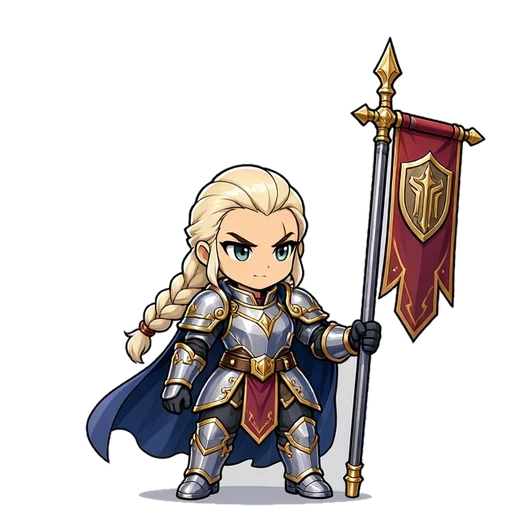
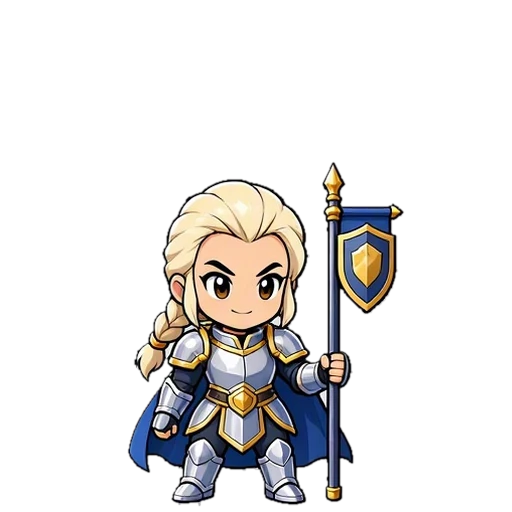
Arte de Hilda, Tilo y Elian; Valka nueva; tienda con seis ofertas; arrastrar cartas al mazo; solo tableros nuevos

diff --git a/js/ui.js b/js/ui.js
@@ -673,7 +673,7 @@ function campaignMap(nextSt) {
 }
 
 /* ---------- arenas y camino de trofeos ---------- */
-function arenaPic(i) { var f = ARENAS[i].field; return f === 'prado' ? 'assets/tablero.webp' : 'assets/boards/' + f + '.webp'; }
+function arenaPic(i) { var f = NEW_FIELD_OF[ARENAS[i].field] || ARENAS[i].field; return f === 'prado' ? 'assets/tablero.webp' : 'assets/boards/' + f + '.webp'; }
 // franja del 1 contra 1: tu arena, tus trofeos y lo que falta para la siguiente parada
 function arenaStrip() {
   var ai = arenaIndex(), ni = roadNext(), pend = roadPending();
@@ -946,6 +946,84 @@ function cardHtml(id, enRejilla) {
     '<span class="tc-bar' + (pct >= 100 ? ' full' : '') + '"><i style="width:' + pct + '%"></i><em>' + (max ? 'MÁX' : c.n + '/' + need) + '</em></span>' +
     '<b class="tc-name">' + esc(u.name) + '</b></button>';
 }
+/* Arrastrar cartas al mazo: una de la colección soltada sobre una del mazo
+   la sustituye, y dos del mazo se cambian de sitio. Con el dedo hay que
+   mantenerla pulsada un momento (si no, es desplazar la pantalla); con el
+   ratón basta con moverla. */
+var cardDragged = false;
+function bindDeckDrag(m) {
+  var tray = m.querySelector('.deck-tray');
+  if (!tray) return;
+  m.querySelectorAll('.tc[data-card]:not(.locked)').forEach(function (card) {
+    card.addEventListener('pointerdown', function (e) {
+      if (e.button) return;
+      var id = card.dataset.card, fromDeck = tray.contains(card), x0 = e.clientX, y0 = e.clientY;
+      var ghost = null, over = null, holdT = null, done = false, lastY = y0, lastX = x0;
+      // cerca del borde de arriba o de abajo, la pantalla se desplaza sola
+      var scroller = (function (el) { while (el && el !== document.body) { var o = getComputedStyle(el).overflowY; if ((o === 'auto' || o === 'scroll') && el.scrollHeight > el.clientHeight) return el; el = el.parentElement; } return document.scrollingElement; })(tray);
+      var autoScroll = function () {
+        if (!ghost || done) return;
+        var edge = 90, v = lastY < edge ? -(edge - lastY) / 6 : lastY > innerHeight - edge ? (lastY - innerHeight + edge) / 6 : 0;
+        if (v) { scroller.scrollTop += v; hover(lastX, lastY); }
+        requestAnimationFrame(autoScroll);
+      };
+      var hover = function (x, y) {
+        var t = target(x, y);
+        if (t !== over) { if (over) over.classList.remove('drop-here'); over = t; if (over) over.classList.add('drop-here'); }
+      };
+      var start = function () {
+        if (ghost || done) return;
+        var r = card.getBoundingClientRect();
+        ghost = card.cloneNode(true); ghost.classList.add('tc-ghost');
+        ghost.style.width = r.width + 'px'; ghost.style.left = (x0 - r.width / 2) + 'px'; ghost.style.top = (y0 - r.height / 2) + 'px';
+        document.body.appendChild(ghost); card.classList.add('tc-lifted'); tray.classList.add('drop-on');
+        if (navigator.vibrate && meta.settings.vibra) navigator.vibrate(15);
+        sfx('tap'); requestAnimationFrame(autoScroll);
+      };
+      var target = function (x, y) {
+        var el = document.elementFromPoint(x, y), t = el && el.closest('.deck-tray .tc[data-card]');
+        return t && t !== card ? t : null;
+      };
+      var move = function (ev) {
+        if (!ghost) {
+          var dist = Math.hypot(ev.clientX - x0, ev.clientY - y0);
+          if (e.pointerType === 'mouse' ? dist > 6 : false) start();
+          else if (dist > 10) { end(); return; }
+          if (!ghost) return;
+        }
+        ev.preventDefault();
+        lastX = ev.clientX; lastY = ev.clientY;
+        ghost.style.transform = 'translate(' + (ev.clientX - x0) + 'px,' + (ev.clientY - y0) + 'px) scale(1.08) rotate(-4deg)';
+        hover(ev.clientX, ev.clientY);
+      };
+      var noScroll = function (ev) { if (ghost) ev.preventDefault(); };
+      var end = function (ev) {
+        if (done) return;
+        done = true; clearTimeout(holdT);
+        document.removeEventListener('pointermove', move); document.removeEventListener('pointerup', end); document.removeEventListener('pointercancel', end);
+        document.removeEventListener('touchmove', noScroll);
+        if (!ghost) return;
+        ghost.remove(); card.classList.remove('tc-lifted'); tray.classList.remove('drop-on');
+        if (over) over.classList.remove('drop-here');
+        cardDragged = true; setTimeout(function () { cardDragged = false; }, 50);
+        if (!over || !ev || ev.type !== 'pointerup') return;
+        var k = meta.deck.indexOf(over.dataset.card);
+        if (k === -1) return;
+        if (fromDeck) { var j = meta.deck.indexOf(id); meta.deck[j] = meta.deck[k]; meta.deck[k] = id; }
+        else if (meta.deck.indexOf(id) !== -1) { toast('Ya está en el mazo'); return; }
+        else meta.deck[k] = id;
+        saveMeta(); sfx('merge'); renderMenu('collection');
+      };
+      if (e.pointerType !== 'mouse') holdT = setTimeout(start, 260);
+      document.addEventListener('pointermove', move, { passive: false });
+      document.addEventListener('pointerup', end); document.addEventListener('pointercancel', end);
+      document.addEventListener('touchmove', noScroll, { passive: false });
+    });
+    // sin el menú del navegador al mantener pulsada la carta ni el arrastre de su imagen
+    card.addEventListener('contextmenu', function (ev) { ev.preventDefault(); });
+    card.addEventListener('dragstart', function (ev) { ev.preventDefault(); });
+  });
+}
 function bindMenu() {
   var m = $('menu');
   m.querySelectorAll('[data-go]').forEach(function (b) {
@@ -1046,7 +1124,8 @@ function bindMenu() {
   m.querySelectorAll('[data-rf]').forEach(function (b) { b.onclick = function () { collFilter = b.dataset.rf; sfx('tap'); renderMenu('collection'); }; });
   m.querySelectorAll('[data-ef]').forEach(function (b) { b.onclick = function () { collEl = b.dataset.ef; sfx('tap'); renderMenu('collection'); }; });
   m.querySelectorAll('[data-sort]').forEach(function (b) { b.onclick = function () { collSort = b.dataset.sort; sfx('tap'); renderMenu('collection'); }; });
-  m.querySelectorAll('[data-card]').forEach(function (b) { b.onclick = function () { sfx('tap'); showCardModal(b.dataset.card); }; });
+  m.querySelectorAll('[data-card]').forEach(function (b) { b.onclick = function () { if (cardDragged) return; sfx('tap'); showCardModal(b.dataset.card); }; });
+  bindDeckDrag(m);
   m.querySelectorAll('[data-offer]').forEach(function (b) {
     b.onclick = function () {
       var o = shopOffers()[+b.dataset.offer], r = buyOffer(+b.dataset.offer);

diff --git a/js/art.js b/js/art.js
@@ -49,11 +49,12 @@ var IMG = {};
 // imágenes redibujadas: llevan ?v= para que no salga la vieja de la caché
 var ASSET_VER = { 'fx/fusion': 2, 'fx/fusion-eco': 2, 'fx/invocar': 2, 'fx/estado-aturdido': 2, 'fx/estado-veneno': 2, 'fx/estado-critico': 2,
   'fx/veneno-impacto': 2, 'fx/fuego-impacto': 2, 'enemies/coloso2': 2, 'fx/eco-resuena': 2, 'fx/oria-interes': 2, 'ui/vida': 2, 'icons/gota': 2, 'chests/madera': 2, 'chests/plata': 2, 'chests/oro': 2, 'chests/comandante': 2, 'chests/legendario': 2,
-  'tiles/altar': 3, 'tiles/fuente': 3, 'tiles/atalaya': 3 };
+  'tiles/altar': 3, 'tiles/fuente': 3, 'tiles/atalaya': 3, 'units/valka': 4, 'fx/valka-tiro': 2,
+  'units/board/valka-idle': 5, 'units/board/valka-attack': 5 };
 ['cronos', 'eco', 'garra', 'halcon', 'kaia', 'lyra', 'oria', 'rocco', 'seren', 'sombra', 'titan', 'fenix'].forEach(function (id) { ASSET_VER['units/' + id] = 3; });
 function assetV(key) { return ASSET_VER[key] ? '?v=' + ASSET_VER[key] : ''; }
 // tropas sin aura en su casilla
-var NO_CELL_AURA = { eco: true, marea: true, frida: true, pyra: true, valka: true };
+var NO_CELL_AURA = { eco: true, marea: true, frida: true, pyra: true, valka: true, hilda: true, tilo: true, elian: true };
 var IMG_LIST = {
   units: UNIT_ORDER.filter(function (id) { return !UNITS[id].noArt; }),
   enemies: ['blob', 'ghost', 'brute', 'orco', 'rocoso', 'escarcha', 'escudado', 'gelido', 'coloso', 'coloso2', 'nigro', 'dragon'],
@@ -174,7 +175,8 @@ var POSES = {
   melodia: { face: 1 }, cronos: { face: 1 }, halcon: { face: 1 }, ulric: { face: 1 },
   fenix: { face: -1 }, aurora: { face: 1 }, titan: { face: -1 }, boreas: { face: 1 }, midas: { face: 1 },
   kaia: { face: 1 }, seren: { face: 1 }, eco: { face: -1 }, oria: { face: 1 }, garra: { face: 1 },
-  marea: { face: 1 }, frida: { face: 1 }, pyra: { face: 1 }, valka: { face: 1 }
+  marea: { face: 1 }, frida: { face: 1 }, pyra: { face: 1 }, valka: { face: 1 },
+  hilda: { face: 1 }, tilo: { face: 1 }, elian: { face: 1 }
 };
 // tropas con el arte nuevo (assets/personajes): sus poses llevan otra versión
 var NEW_POSE = { cronos: 1, eco: 1, garra: 1, halcon: 1, kaia: 1, lyra: 1, oria: 1, rocco: 1, seren: 1, sombra: 1, titan: 1, fenix: 1 };
@@ -183,7 +185,7 @@ Object.keys(POSES).forEach(function (id) {
   ['idle', 'attack'].forEach(function (pose) {
     var im = new Image();
     im.onload = function () { im.ready = true; };
-    im.src = 'assets/units/board/' + id + '-' + pose + '.webp' + (NEW_POSE[id] ? (pose === 'idle' ? '?v=4' : '?v=2') : pose === 'idle' ? '?v=3' : '');
+    im.src = 'assets/units/board/' + id + '-' + pose + '.webp' + (assetV('units/board/' + id + '-' + pose) || (NEW_POSE[id] ? (pose === 'idle' ? '?v=4' : '?v=2') : pose === 'idle' ? '?v=3' : ''));
     IMG['pose/' + id + '-' + pose] = im;
   });
 });
@@ -212,10 +214,12 @@ var FX_OF = { fire: 'fuego', ice: 'hielo', poison: 'veneno', bomb: 'canon', arro
 var UNIT_SHOT = { lyra: 0.5, kaia: 0.56, halcon: 0.6, seren: 0.46, sombra: 0.52, titan: 0.46, cronos: 0.32, rocco: 0.36,
   marea: 0.42, frida: 0.5, pyra: 0.3, valka: 0.62, fenix: 0.5 };
 var UNIT_SHOT_SPIN = { cronos: true, rocco: true, marea: true, pyra: true };
-Object.keys(UNIT_SHOT).forEach(function (id) {
+// las de apoyo no disparan: su efecto sale hacia las vecinas que potencian
+var SUPPORT_FX = ['hilda', 'tilo', 'elian'];
+Object.keys(UNIT_SHOT).concat(SUPPORT_FX).forEach(function (id) {
   var im = new Image();
   im.onload = function () { im.ready = true; };
-  im.src = 'assets/fx/' + id + '-tiro.webp';
+  im.src = 'assets/fx/' + id + '-tiro.webp' + assetV('fx/' + id + '-tiro');
   IMG['fx/' + id + '-tiro'] = im;
 });
 var FX_TURNS = { 'fx/fuego-bola': true, 'fx/hielo-bola': true, 'fx/hielo-destello': true, 'fx/canon-destello': true,

diff --git a/style.css b/style.css
@@ -1450,6 +1450,15 @@ x-ico.off { filter: grayscale(1) brightness(0.45); opacity: 0.75; }
 .sh-offer.r-legendaria .sh-rar { background-image: url(assets/ui/cinta-legendaria.webp); }
 .sh-offer .sh-new { top: 2px; right: -12px; z-index: 3; }
 .sh-head h3 { font-family: 'Titan One', 'Lilita One', sans-serif; letter-spacing: 0.02em; }
+/* seis ofertas en dos filas de tres: cartas más pequeñas */
+.sh-offers { grid-template-columns: repeat(3, minmax(0, 1fr)); gap: 26px 6px; }
+.sh-offer[class*=" r-"] { border-width: 12px; border-image-width: 12px; padding: 30px 0 2px; }
+.sh-offer .sh-rar { top: -26px; width: 94%; font-size: clamp(0.78rem, 3.4vw, 1rem); -webkit-text-stroke-width: 4px; text-shadow: 0 2px 0 var(--ink); }
+.sh-offer img { width: 52px; height: 52px; margin-top: 0; }
+.sh-offer b { font-size: 0.8rem; -webkit-text-stroke-width: 4px; }
+.sh-offer .sh-n { font-size: 0.66rem; -webkit-text-stroke-width: 3px; }
+.sh-offer .sh-price { font-size: 0.82rem; padding: 3px 4px; }
+.sh-offer .sh-new { right: -8px; font-size: 0.6rem; }
 
 /* portal de luz bajo el cofre al abrirlo (assets/chests/portal-<tipo>) */
 .cfx-portal {
@@ -2473,3 +2482,12 @@ body[data-screen="collection"], body[data-screen="commanders"], body[data-screen
   border-style: solid; border-color: transparent; border-width: 5px 8px;
   border-image: url(assets/ui/placa-vida.webp) 24 fill / 5px 8px stretch; padding: 1px 4px;
 }
+
+/* arrastrar cartas al mazo (bindDeckDrag) */
+.tc { -webkit-touch-callout: none; user-select: none; -webkit-user-select: none; }
+.tc img { -webkit-user-drag: none; }
+.tc-ghost { position: fixed; z-index: 90; pointer-events: none; margin: 0; filter: drop-shadow(0 10px 14px rgba(0,0,0,0.5)); transform: scale(1.08) rotate(-4deg); }
+.tc-lifted { opacity: 0.35; }
+.deck-tray.drop-on .tc { animation: dropWiggle 0.6s ease-in-out infinite; }
+.deck-tray .tc.drop-here { animation: none; transform: scale(1.1); outline: 3px solid #ffe066; outline-offset: 2px; border-radius: 12px; }
+@keyframes dropWiggle { 50% { transform: rotate(2deg); } }

diff --git a/js/board.js b/js/board.js
@@ -76,6 +76,15 @@ var FIELDS = {
 };
 // con varios tableros para un bioma se elige uno al azar en cada partida
 var BIOME_FIELD = { prado: ['prado', 'prado3'], bosque: ['prado', 'prado3'], pantano: ['prado', 'veneno'], hielo: ['hielo', 'hielo2'], ruinas: 'roca', desierto: 'roca', volcan: ['lava2', 'lava3'], cripta: ['lava2', 'lava3'] };
+// de momento solo se juega en los tableros nuevos: cada uno viejo se cambia
+// por el nuevo que más se le parece
+var NEW_FIELDS = ['prado3', 'hielo2', 'lava3'];
+var NEW_FIELD_OF = { prado: 'prado3', veneno: 'prado3', hielo: 'hielo2', roca: 'hielo2', lava2: 'lava3' };
+function onlyNewFields(list) {
+  var out = [];
+  list.forEach(function (f) { f = NEW_FIELD_OF[f] || f; if (NEW_FIELDS.indexOf(f) !== -1 && out.indexOf(f) === -1) out.push(f); });
+  return out.length ? out : NEW_FIELDS.slice();
+}
 function fieldGeo(id) {
   var f = FIELDS[id], cell = (f.gx1 - f.gx0) / COLS;
   var P = function (q) { return { x: (q[0] - f.cx) / cell, y: (q[1] - f.cy) / cell }; };
@@ -862,7 +871,18 @@ Board.prototype.update = function (dt) {
     if (d.buff) {
       // la bardo toca: pose de ataque a ratos
       u.gen += dt;
-      if (u.gen >= 2.4) { u.gen = 0; u.atk = 0.5; u.recoil = 1; }
+      if (u.gen >= 2.4) {
+        u.gen = 0; u.atk = 0.5; u.recoil = 1;
+        // su efecto (assets/fx/<tropa>-tiro) sale hacia cada vecina que potencia
+        var bk = 'fx/' + u.id + '-tiro', bp = this.cc(i);
+        if (art(bk)) neighbors(i).forEach(function (j) {
+          var v = this.cells[j];
+          if (!v || !UNITS[v.id].dmg) return;
+          var q = this.cc(j);
+          this.fx.push({ type: 'pic', key: bk, x: bp.x + (q.x - bp.x) * 0.55, y: bp.y - 0.15 + (q.y - bp.y) * 0.55, size: 0.62,
+            rot: Math.atan2(q.y - bp.y, q.x - bp.x), grow: 0.5, life: 0.45, max: 0.45 });
+        }, this);
+      }
     }
     if (d.wild) {
       // Eco ensaya su hechizo de cristales de vez en cuando

diff --git a/js/meta.js b/js/meta.js
@@ -570,7 +570,7 @@ function stageUnlocked(n) { return n === 1 || (meta.campaign[n - 1] || 0) > 0; }
 /* ---------- tienda ---------- */
 // Ofertas del día: se eligen la primera vez que se abre la tienda en el día
 // (semilla = fecha) y se guardan, para que no cambien al desbloquear tropas.
-// Tres de cartas por oro y una de carta épica o legendaria por gemas.
+// Cinco de cartas por oro y una de carta épica, mítica o legendaria por gemas.
 // Pueden ser de tropas que aún no tienes (la primera carta la desbloquea),
 // salvo las legendarias y míticas, que solo salen en el cofre de oro (en la
 // tienda solo aparecen las que ya tienes).
@@ -578,6 +578,14 @@ function shopOffers() {
   var key = todayKey();
   if (meta.shop.day !== key) meta.shop = { day: key, bought: [], offers: null };
   if (!meta.shop.offers) { meta.shop.offers = makeShopOffers(key); saveMeta(); }
+  else if (meta.shop.offers.length < 6) {
+    // las de hoy se hicieron cuando había cuatro: se completan sin tocar las que había
+    var have = meta.shop.offers.map(function (o) { return o.id; });
+    makeShopOffers(key).forEach(function (o) {
+      if (meta.shop.offers.length < 6 && have.indexOf(o.id) === -1) { o.i = meta.shop.offers.length; meta.shop.offers.push(o); }
+    });
+    saveMeta();
+  }
   return meta.shop.offers;
 }
 function makeShopOffers(key) {
@@ -599,8 +607,10 @@ function makeShopOffers(key) {
     }
   };
   add(['comun'], 'gold');
+  add(['comun'], 'gold');
   add([rnd() < 0.5 ? 'comun' : 'rara', 'comun'], 'gold');
   add(['rara', 'comun'], 'gold');
+  add(['epica', 'rara', 'comun'], 'gold');
   var g = rnd();
   add([g < 0.08 ? 'legendaria' : g < 0.33 ? 'mitica' : 'epica', 'epica', 'mitica'], 'gems');
   out.forEach(function (o, i) { o.i = i; });

diff --git a/js/data.js b/js/data.js
@@ -211,19 +211,19 @@ var UNITS = {
   },
   // apoyos al estilo de los de Rush Royale: no atacan y potencian a sus vecinas
   hilda: {
-    element: 'metal', name: 'Hilda', title: 'Afiladora', role: 'Apoyo', rarity: 'rara', noArt: true,
+    element: 'metal', name: 'Hilda', title: 'Afiladora', role: 'Apoyo', rarity: 'rara',
     color: '#9aa4b8', color2: '#ffb347', skin: '#f3cfae',
     buff: { dmg: 0.15 },
     desc: 'No ataca. Su piedra de afilar da a las tropas de al lado un 15% más de daño por cada rango suyo.'
   },
   tilo: {
-    element: 'naturaleza', name: 'Tilo', title: 'Químico', role: 'Apoyo', rarity: 'rara', noArt: true,
+    element: 'naturaleza', name: 'Tilo', title: 'Químico', role: 'Apoyo', rarity: 'rara',
     color: '#7bd93f', color2: '#e8ff7a', skin: '#ffd9b8',
     buff: { acid: 0.04 },
     desc: 'No ataca. Las tropas de al lado mojan sus golpes en ácido: el monstruo pierde armadura y durante 3 segundos recibe un 4% más de daño por cada rango suyo.'
   },
   elian: {
-    element: 'arcano', name: 'Elian', title: 'Inquisidor', role: 'Apoyo', rarity: 'rara', noArt: true,
+    element: 'arcano', name: 'Elian', title: 'Inquisidor', role: 'Apoyo', rarity: 'rara',
     color: '#f5e6a8', color2: '#ffd34d', skin: '#f3cfae',
     buff: { crit: 0.07 },
     desc: 'No ataca. Bendice con su luz a las tropas de al lado: un 7% de golpe crítico doble por cada rango suyo.'

diff --git a/index.html b/index.html
@@ -15,7 +15,7 @@
 <link rel="preconnect" href="https://fonts.googleapis.com">
 <link rel="preconnect" href="https://fonts.gstatic.com" crossorigin>
 <link href="https://fonts.googleapis.com/css2?family=Fredoka:wght@500;600;700&family=Lilita+One&family=Nunito:wght@700;800;900&family=Titan+One&display=swap" rel="stylesheet">
-<link rel="stylesheet" href="style.css?v=68">
+<link rel="stylesheet" href="style.css?v=70">
 </head>
 <body>
   <div id="menu" class="menu"></div>
@@ -57,13 +57,13 @@
   <div id="overlay" class="overlay" hidden></div>
   <div id="toast" class="toast"></div>
 
-  <script src="js/data.js?v=52"></script>
-  <script src="js/version.js?v=52"></script>
-  <script src="js/art.js?v=46"></script>
-  <script src="js/meta.js?v=34"></script>
-  <script src="js/board.js?v=51"></script>
-  <script src="js/battle.js?v=61"></script>
+  <script src="js/data.js?v=53"></script>
+  <script src="js/version.js?v=53"></script>
+  <script src="js/art.js?v=47"></script>
+  <script src="js/meta.js?v=35"></script>
+  <script src="js/board.js?v=52"></script>
+  <script src="js/battle.js?v=62"></script>
   <script src="js/music.js?v=1"></script>
-  <script src="js/ui.js?v=77"></script>
+  <script src="js/ui.js?v=78"></script>
 </body>
 </html>

diff --git a/js/version.js b/js/version.js
@@ -7,8 +7,19 @@
    La ventana sale sola al entrar con una versión nueva (meta.lastSeenVersion)
    y también desde Opciones.
    ========================================================= */
-var APP_VERSION = '1.25.0';
+var APP_VERSION = '1.26.0';
 var APP_PATCH_NOTES = [
+  {
+    version: '1.26.0',
+    summary: 'Hilda, Tilo y Elian con dibujo, Valka nueva y tienda más grande',
+    items: [
+      'Hilda, Tilo y Elian ya tienen su dibujo, y su efecto sale hacia las tropas que potencian.',
+      'Valka estrena retrato, poses y lanza.',
+      'La tienda trae seis ofertas al día, en dos filas de tres.',
+      'Mantén pulsada una carta de tu colección y arrástrala sobre una del mazo para cambiarlas. También sirve para ordenar el mazo.',
+      'De momento todas las partidas se juegan en los tableros nuevos de prado, hielo y lava.'
+    ]
+  },
   {
     version: '1.25.0',
     summary: 'Tres tropas raras de apoyo y casillas especiales ilustradas',

diff --git a/js/battle.js b/js/battle.js
@@ -72,7 +72,7 @@ function startBattle(mode, opts) {
   // que le pegue para el decorado de alrededor
   var loaded = function (k) { return art(FIELD_GEOS[k].image); };
   // el 1 contra 1 (no el torneo) se juega en el tablero de tu arena
-  var choices = stage ? [].concat(BIOME_FIELD[biome] || 'prado') : mode === 'duel' && !opts.tourney ? [ARENAS[arenaIndex()].field] : Object.keys(FIELD_GEOS);
+  var choices = onlyNewFields(stage ? [].concat(BIOME_FIELD[biome] || 'prado') : mode === 'duel' && !opts.tourney ? [ARENAS[arenaIndex()].field] : Object.keys(FIELD_GEOS));
   var ready = choices.filter(loaded);
   var fid = ready.length ? pick(ready) : loaded('prado') ? 'prado' : null;
   if (reto) {

diff --git a/sw.js b/sw.js
@@ -6,7 +6,7 @@
 // archivo por su cuenta: si uno falla, los demás se quedan. El arte (EXTRA)
 // se baja después, de pocos en pocos y sin bloquear, y lo que se vaya
 // usando se guarda igualmente al pedirlo.
-var CACHE = 'reino-de-torres-v90';
+var CACHE = 'reino-de-torres-v91';
 // tropas con el dibujo nuevo (assets/personajes)
 var NEW_ART = ['cronos', 'eco', 'garra', 'halcon', 'kaia', 'lyra', 'oria', 'rocco', 'seren', 'sombra', 'titan', 'fenix'];
 var CORE = ['./', 'index.html', 'style.css', 'favicon.svg', 'manifest.json', 'js/data.js', 'js/version.js', 'js/art.js', 'js/meta.js', 'js/board.js', 'js/battle.js', 'js/music.js', 'js/ui.js',
